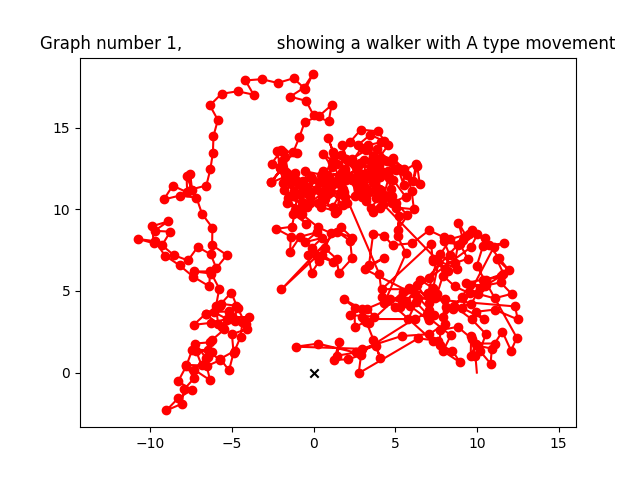
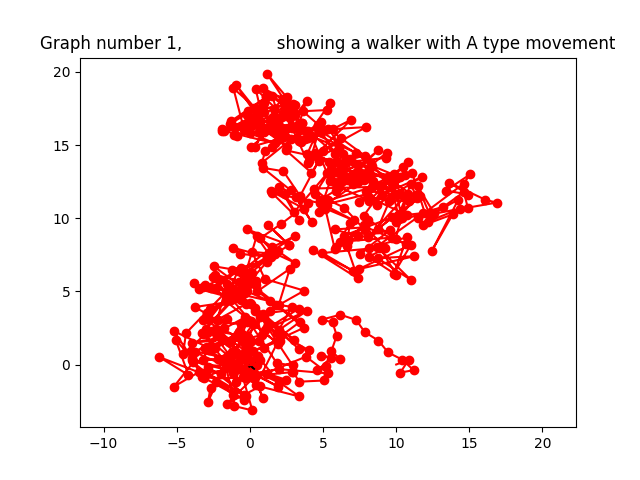
more natural gravity

diff --git a/Code/walker.py b/Code/walker.py
@@ -195,7 +195,7 @@ def gravitate(walkers: list[Walker], degree: int = 10, gravity: int = 0) -> None
     
     :param walkers: A list of Walker objects
     :param degree: The degree of attraction or repulsion between walkers,
-                    the higher the stronger. (default: 10)
+                    the higher the stronger. (default: 5)
     :param gravity: A boolean indicating whether to apply gravity or not (default: True)
     :return: None
     """
@@ -213,13 +213,13 @@ def gravitate(walkers: list[Walker], degree: int = 10, gravity: int = 0) -> None
             current_direction = (current_direction[0]+x_difference,
                                  current_direction[1]+y_difference)
         # Adapt the direction to the desired gravitational power and number of walkers
-        ratio = float(degree * len(walkers) * (gravity))
+        ratio = float(degree * len(walkers)**2 * (gravity))
         distance_squared = current_direction[0]**2 + current_direction[1]**2
         angle = walker.directional_angle(
             (walker.location[0] + current_direction[0],walker.location[1] + current_direction[1]))
 
         # To avoid too strong attraction (wormholes and such)
-        atrraction = min((ratio) / (distance_squared), 5)
+        atrraction = min((ratio) / (distance_squared), 3)
 
         # Get location not relative to walker
         if angle:
